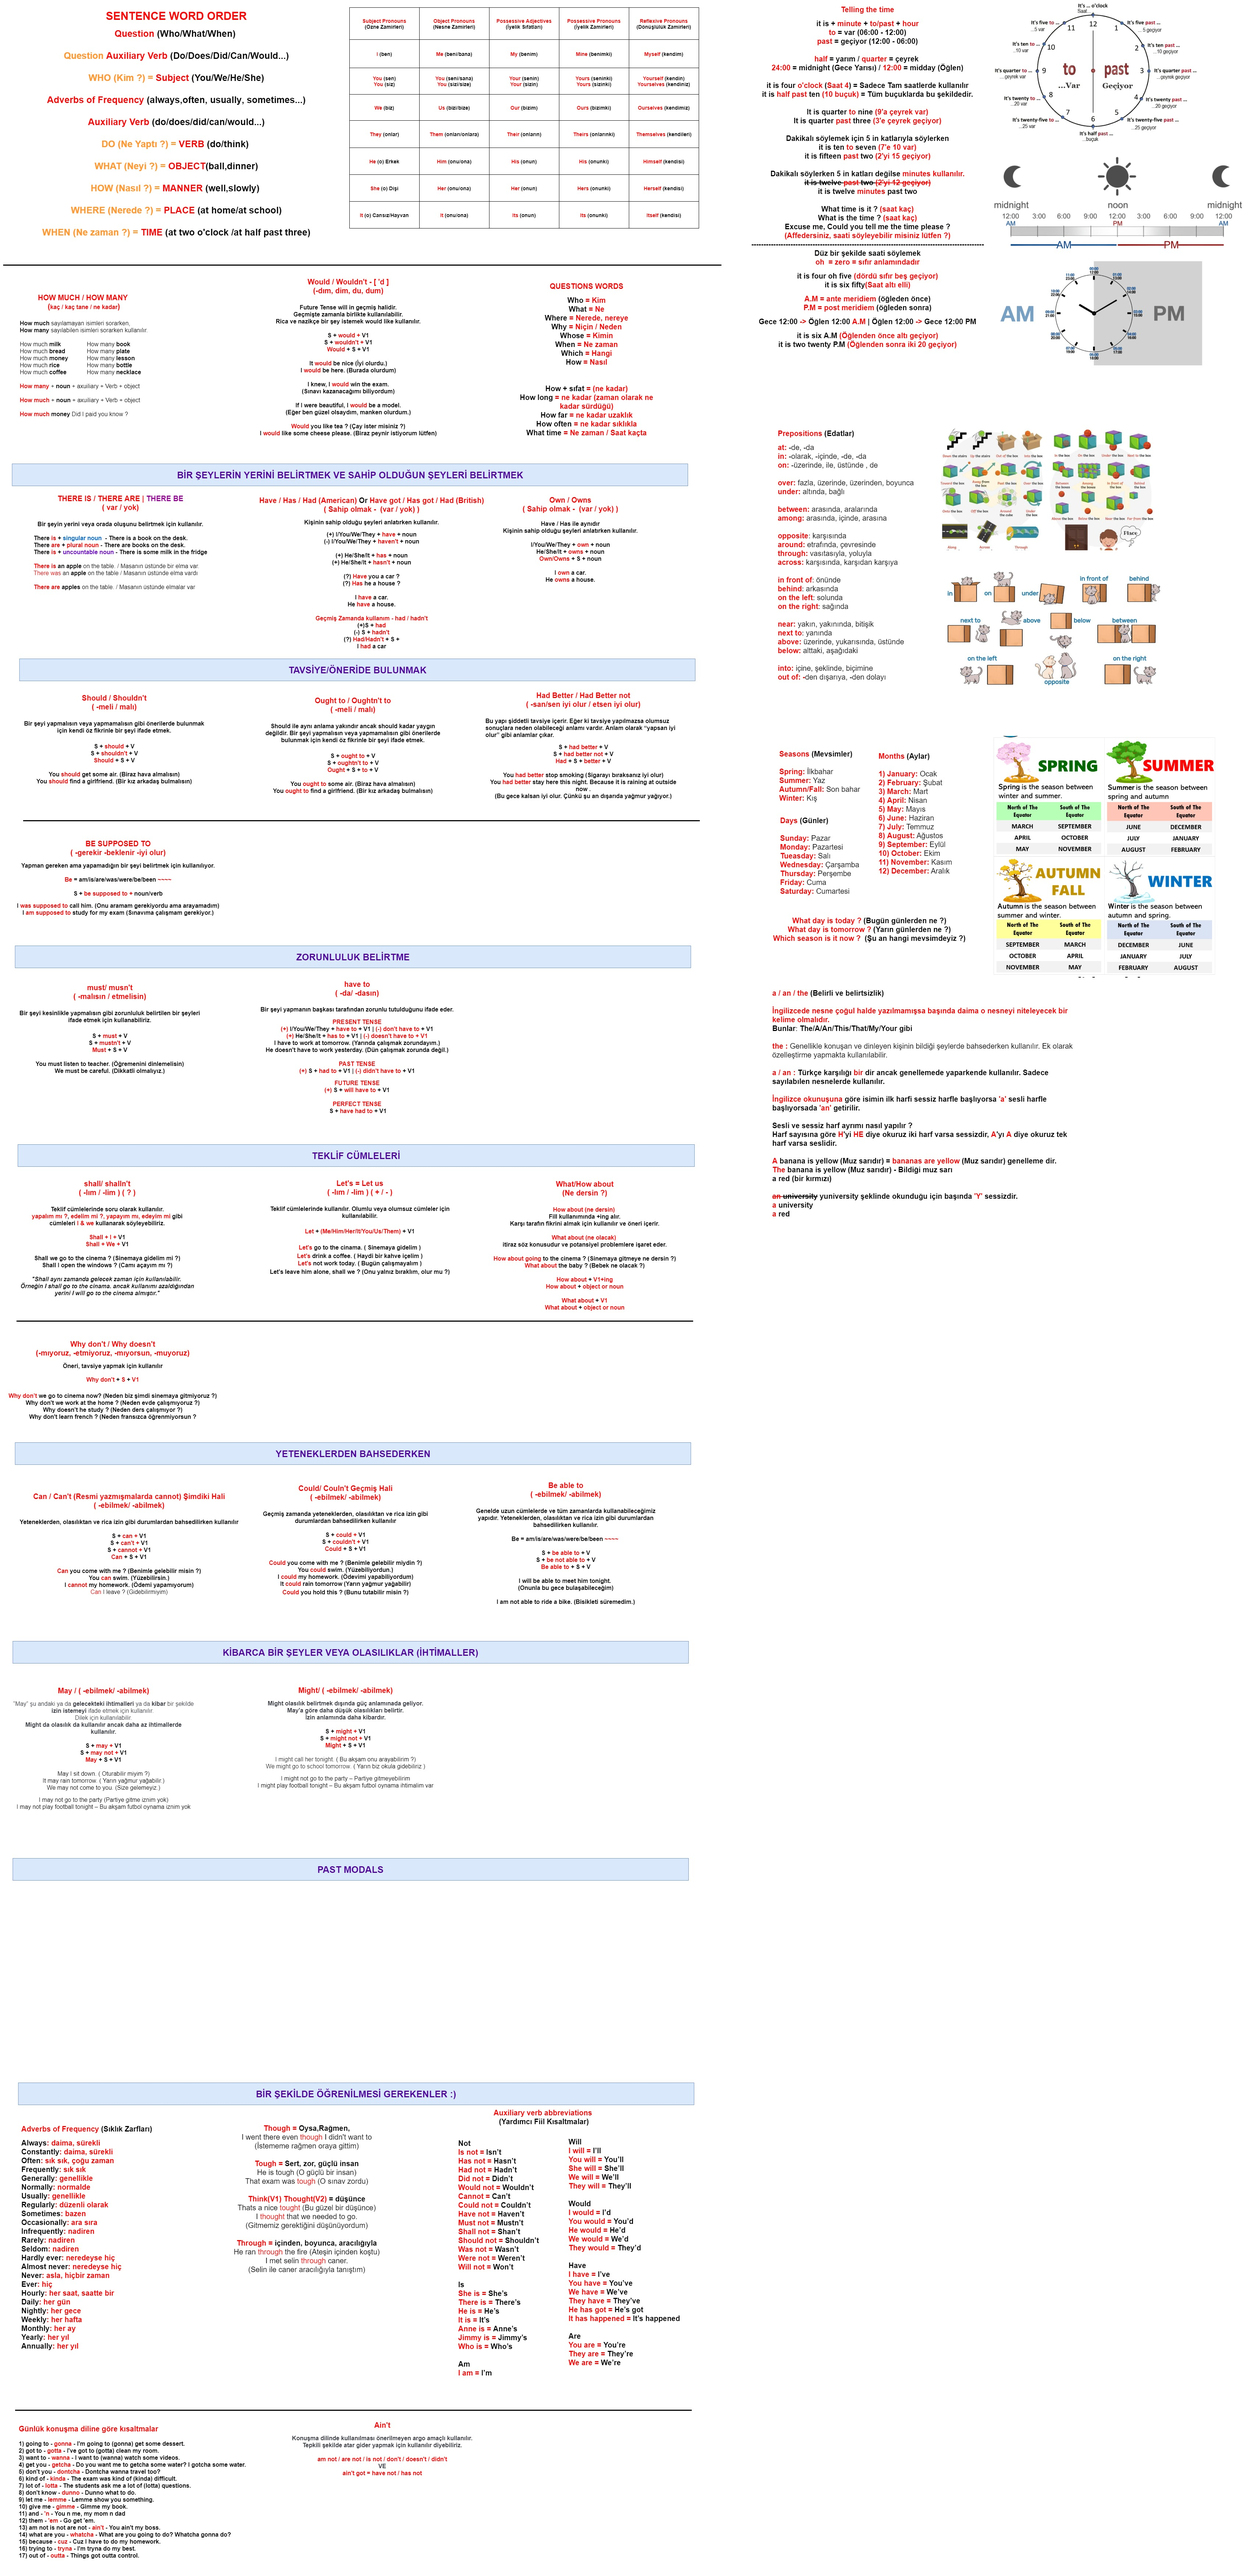
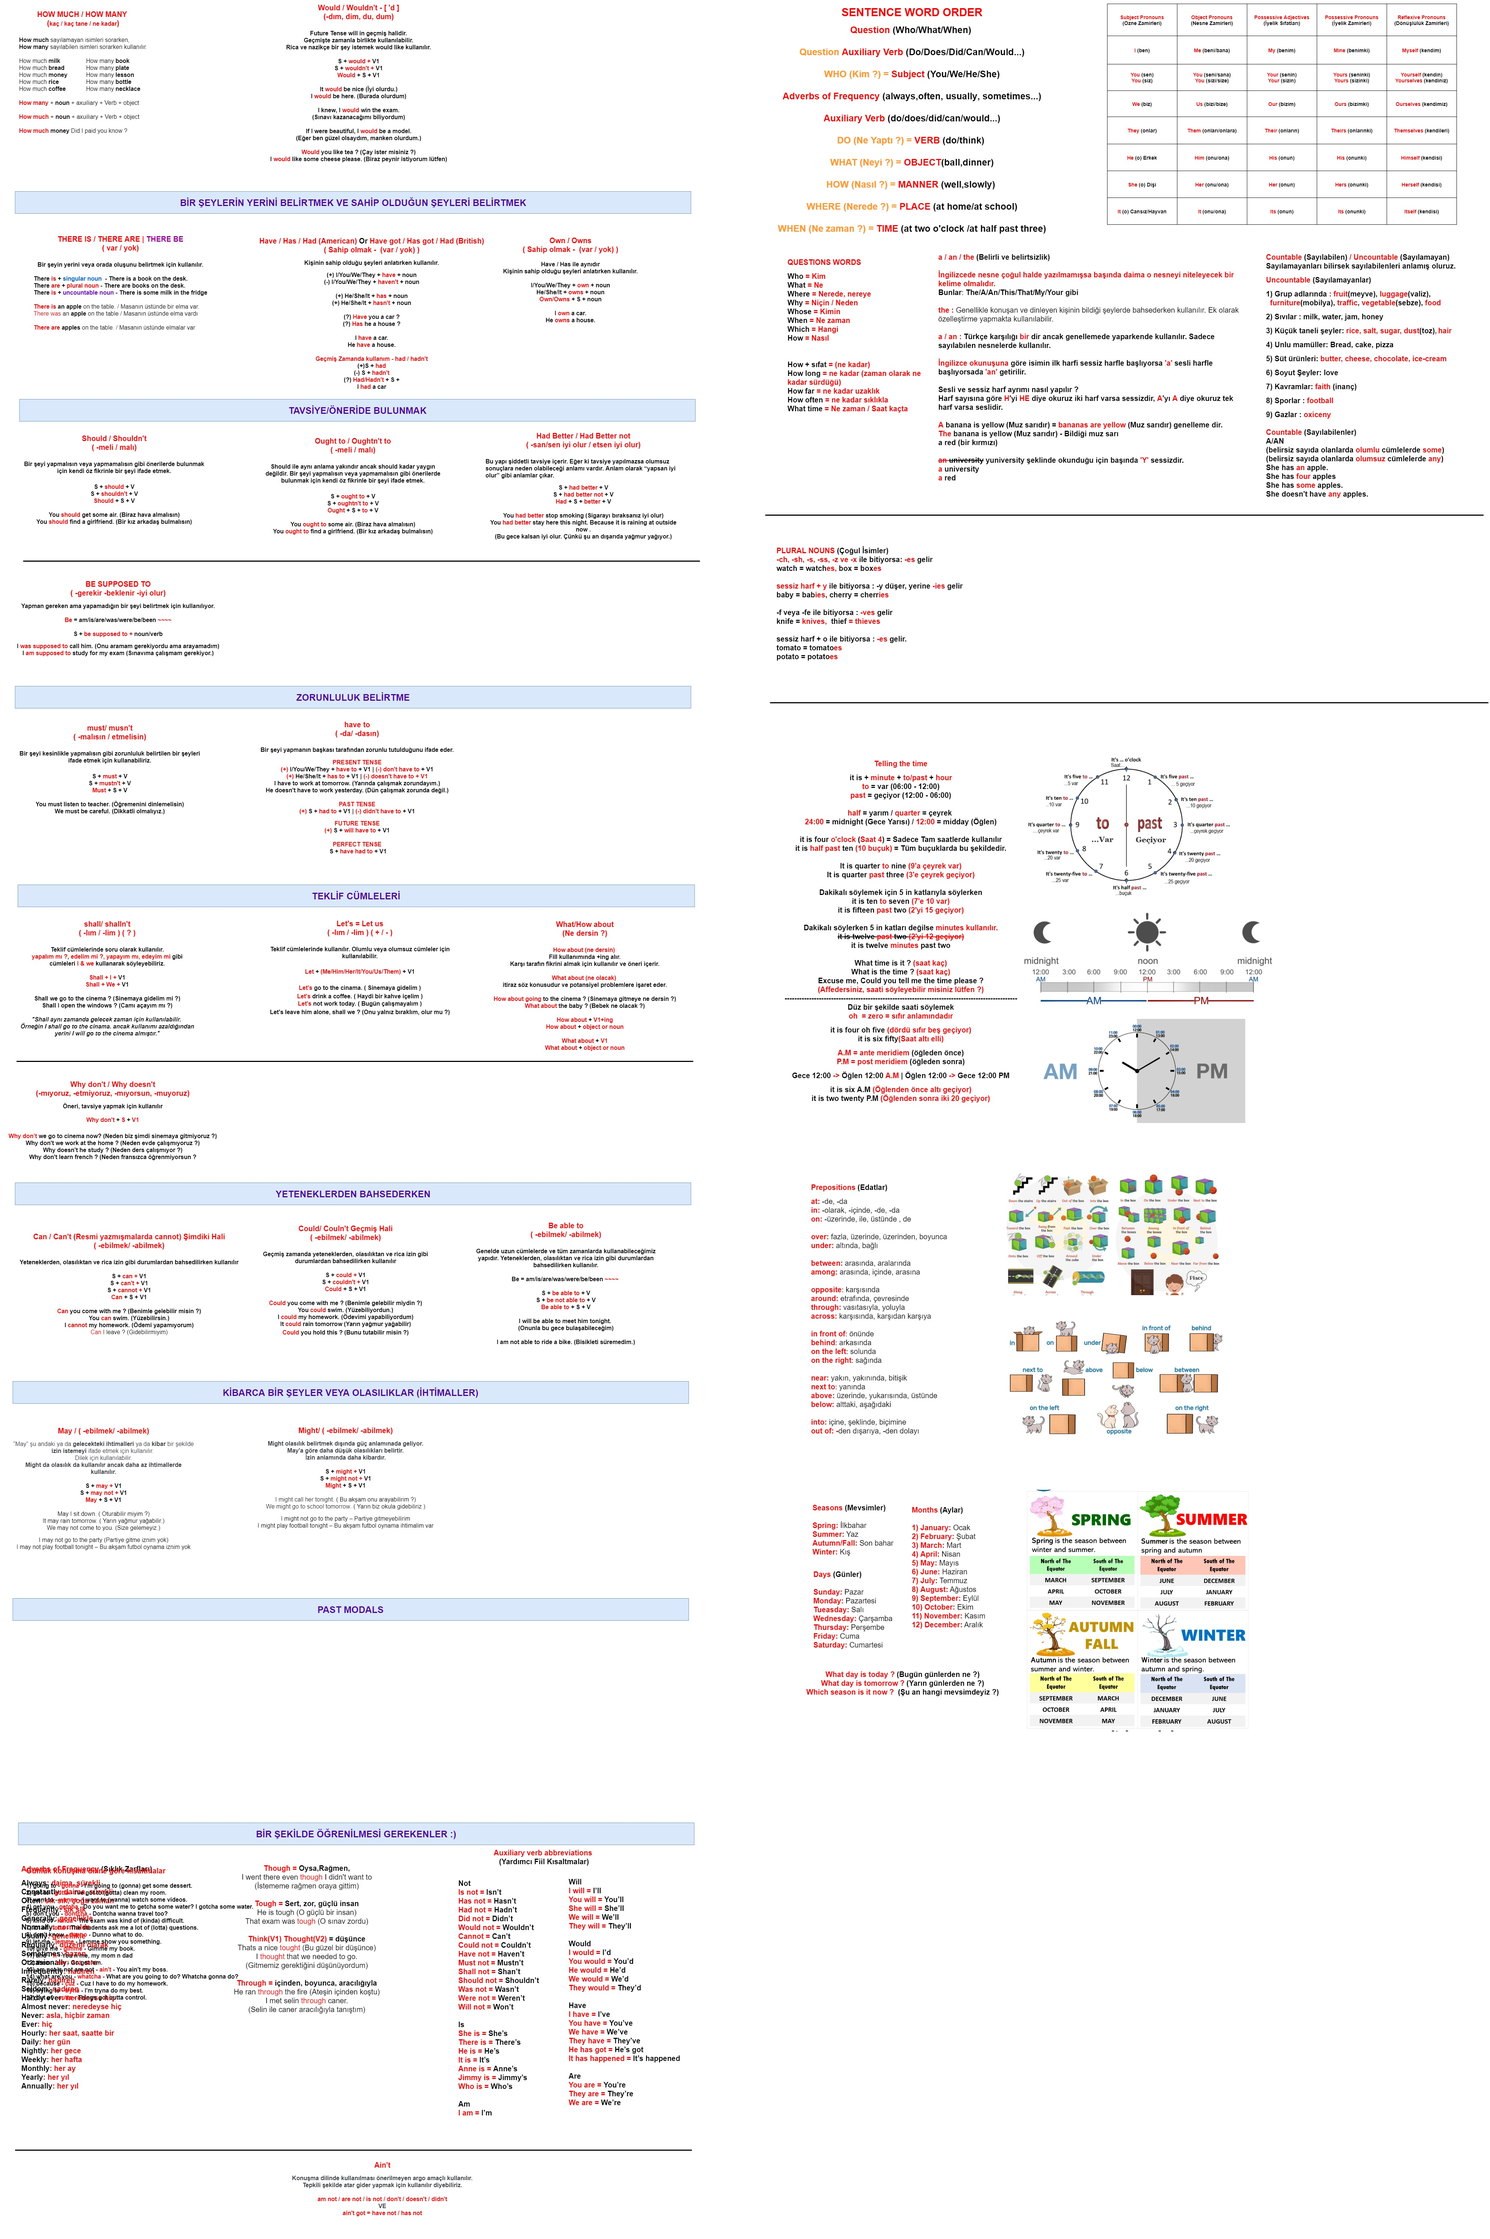
general plural nouns, countable, uncountabled added

Changed region(s): [[0.0, 0.0, 0.9909, 0.7804], [0.0, 0.8116, 0.5574, 0.9989], [0.4645, 0.0, 0.4954, 0.0624]]

diff --git a/README.md b/README.md
@@ -32,6 +32,7 @@
 - https://dersimizingilizce.com
 - https://blog.cambly.com/tr/
 - https://etkilipratikingilizce.com/
+- https://www.ef.com.tr/ingilizce-ogreniyorum/ingilizce-gramer/
 
 ### `Youtube Sources`
 - https://www.youtube.com/c/EtkiliPratikİngilizce - Etkili Pratik İngilizce
